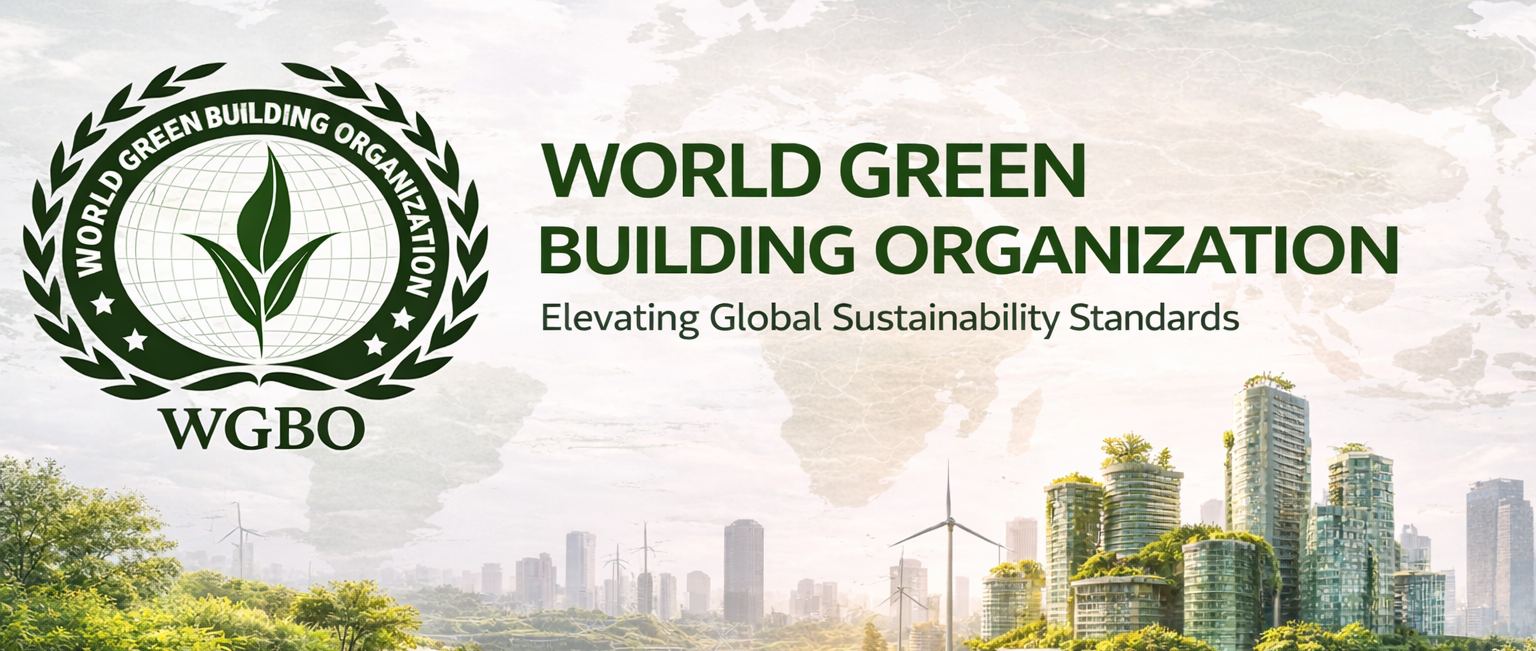
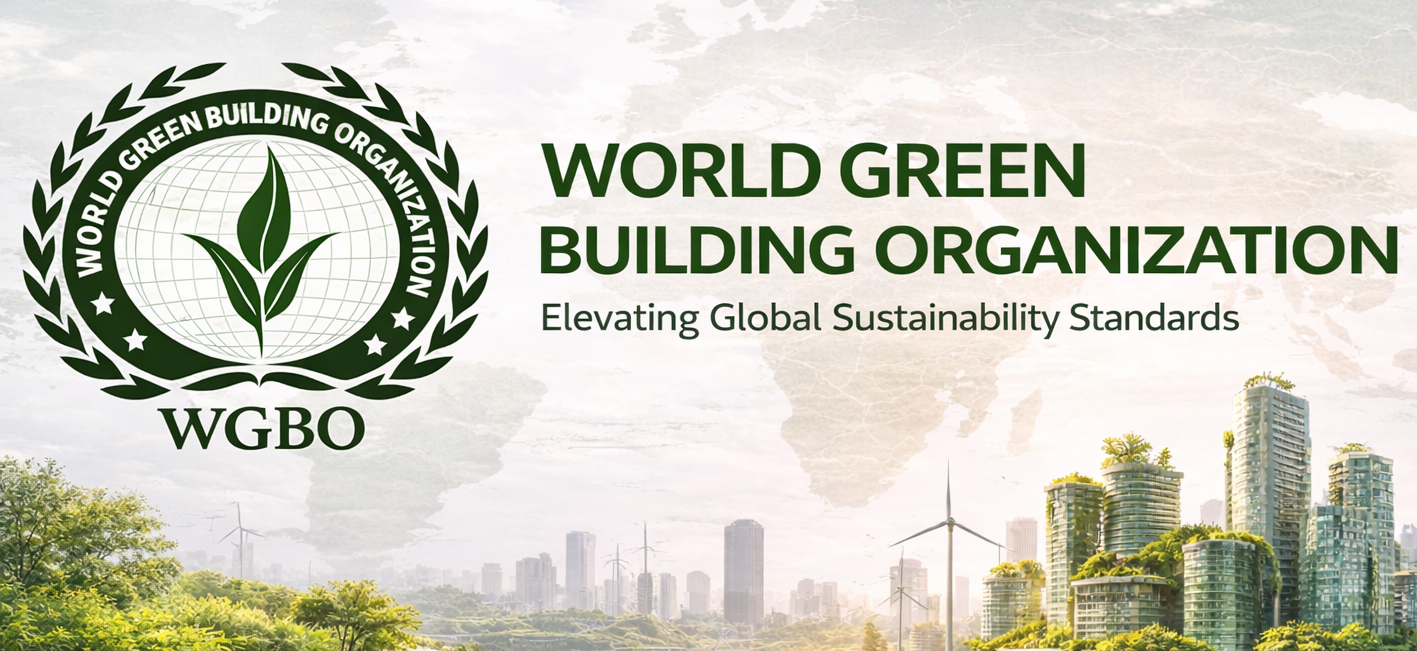
recent changes completed

diff --git a/components/hero-slider.tsx b/components/hero-slider.tsx
@@ -62,7 +62,7 @@ export function HeroSlider() {
     }, [next])
 
     return (
-        <section className="relative h-[500px] overflow-hidden md:h-[600px] lg:h-[650px]">
+        <section className="relative w-full overflow-hidden bg-gray-50/50 aspect-video md:aspect-[16/7] lg:aspect-[21/9] 2xl:aspect-[2.5/1]">
             {slides.map((slide, index) => (
                 <div
                     key={index}
@@ -73,7 +73,8 @@ export function HeroSlider() {
                         src={slide.image}
                         alt={slide.title}
                         fill
-                        className="object-cover"
+                        sizes="100vw"
+                        className="object-cover w-full h-full"
                         priority={index === 0}
                     />
                 </div>

diff --git a/components/header.tsx b/components/header.tsx
@@ -168,12 +168,12 @@ export function Header() {
  <Image
  src="/images/LOGO.png"
  alt="WGBO Logo"
- width={160}
- height={160}
- className="h-20 w-20 md:h-[100px] md:w-[100px] object-contain"
+ width={200}
+ height={200}
+ className="h-24 w-24 md:h-[130px] md:w-[130px] object-contain"
  priority
  />
- <span className="text-base font-bold text-primary font-heading md:text-lg -mt-2 leading-none">WGBO</span>
+ <span className="text-base font-bold text-primary font-heading md:text-xl -mt-2 md:-mt-3 leading-none">WGBO</span>
  </div>
 
  {/* Desktop */}
